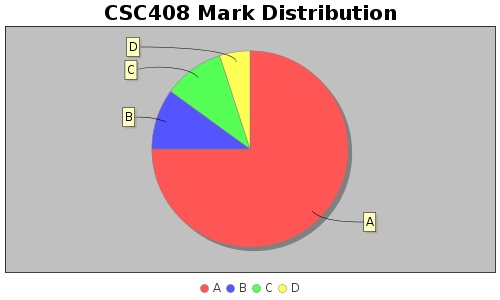
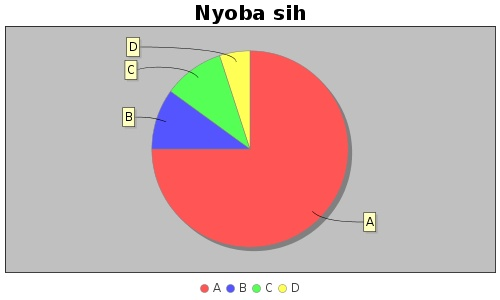
sa

Changed region(s): [[0.21, 0.0, 0.81, 0.09]]

diff --git a/src/main/java/org/labseni/SimCantik.java b/src/main/java/org/labseni/SimCantik.java
@@ -1,17 +1,70 @@
 package org.labseni;
-
+import java.awt.Color;
+import java.awt.BasicStroke;
 import javax.swing.JFrame;
 import org.jfree.chart.JFreeChart;
 import org.jfree.chart.ChartUtils;
 import org.jfree.chart.ChartFactory;
+import org.jfree.chart.ChartPanel;
+import org.jfree.data.xy.XYDataset;
+import org.jfree.data.xy.XYSeries;
+import org.jfree.chart.plot.XYPlot;
+import org.jfree.chart.ui.ApplicationFrame;
 import org.jfree.data.general.DefaultPieDataset;
+import org.jfree.chart.plot.PlotOrientation;
+import org.jfree.data.xy.XYSeriesCollection;
+import org.jfree.chart.ui.UIUtils; //perubahan dari refinerry utilities
 import java.io.File;
+import org.jfree.chart.renderer.xy.XYLineAndShapeRenderer;
 
 public class SimCantik {
 	public SimCantik()
 	{
 		
 	
+	}
+	private class ngeplotFrame extends ApplicationFrame
+	{
+		public ngeplotFrame(String JudulFrame, String JudulPlot)
+		{
+			super(JudulFrame);
+			JFreeChart ChartGarisXY = ChartFactory.createXYLineChart(JudulPlot, "Category", "Score", createDataset(), PlotOrientation.VERTICAL, true, true, false);
+			ChartPanel plotPanel = new ChartPanel(ChartGarisXY);
+			plotPanel.setPreferredSize(new java.awt.Dimension(560, 367));
+			final XYPlot plot = ChartGarisXY.getXYPlot();
+			XYLineAndShapeRenderer renderer = new XYLineAndShapeRenderer();
+			renderer.setSeriesPaint(0, Color.RED);
+			renderer.setSeriesPaint(1, Color.GREEN);
+			renderer.setSeriesPaint(2, Color.YELLOW);
+			renderer.setSeriesStroke(0, new BasicStroke(4.0f));
+			renderer.setSeriesStroke(1, new BasicStroke(3.0f));
+			renderer.setSeriesStroke(2, new BasicStroke(2.0f));
+			plot.setRenderer(renderer);
+			setContentPane(plotPanel);
+			
+		}
+		private XYDataset createDataset()
+		{
+			final XYSeries firefox = new XYSeries("Firefox");
+			firefox.add(1.0, 1.0);
+			firefox.add(2.0, 4.0);
+			firefox.add(3.0, 3.0);
+			final XYSeries chrome = new XYSeries("Chrome");
+			chrome.add(1.0, 4.0);
+			chrome.add(2.0, 5.0);
+			chrome.add(3.0, 6.0);
+			final XYSeries iexplorer = new XYSeries("Internet Explorer");
+			iexplorer.add(1.0, 1.0);
+			iexplorer.add(2.0, 4.0);
+			iexplorer.add(3.0, 3.0);
+			final XYSeriesCollection dataset = new XYSeriesCollection();
+			dataset.addSeries(firefox);
+			dataset.addSeries(chrome);
+			dataset.addSeries(iexplorer);
+			return dataset;
+
+		}
+
 	}
 
 	private class bikinGambar 
@@ -25,7 +78,7 @@ public class SimCantik {
 			pieDataset.setValue("C", new Integer(10));
 			pieDataset.setValue("D", new Integer(5));
 	
-			JFreeChart chart = ChartFactory.createPieChart("CSC408 Mark Distribution", pieDataset, true, true, false);
+			JFreeChart chart = ChartFactory.createPieChart("Nyoba sih", pieDataset, true, true, false);
 			try {
 				ChartUtils.saveChartAsJPEG(new File("chasrt.jpg"), chart, 500, 300);
 			} 
@@ -40,6 +93,11 @@ public class SimCantik {
 	{
 		bikinGambar makan= new bikinGambar();
 		makan.bikinGambar();
+		ngeplotFrame chart = new ngeplotFrame("Boker", "Dicelana");
+		chart.pack();
+		UIUtils.centerFrameOnScreen(chart);
+		chart.setVisible(true);
+		
 
 	}
 
